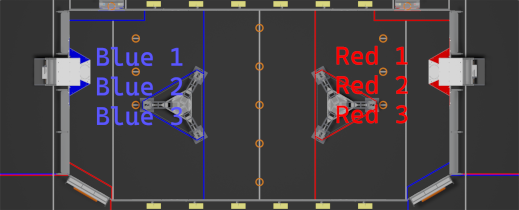
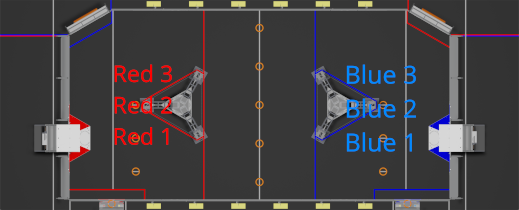
Add option to flip field, add second easter egg

diff --git a/lib/pages/home.dart b/lib/pages/home.dart
@@ -1,6 +1,7 @@
 import 'package:flutter/material.dart';
 
 import 'package:scouting_app_865_2024/util/state.dart';
+import 'package:scouting_app_865_2024/components/checkmark_button.dart';
 import 'package:scouting_app_865_2024/components/radio_buttons.dart';
 import 'package:scouting_app_865_2024/util/themes.dart';
 
@@ -13,6 +14,9 @@ class HomePage extends StatefulWidget {
 }
 
 class _HomePageState extends State<HomePage> {
+  var fieldImage = Image.asset('images/field.png');
+  bool flipped = false;
+
   void updateRobotPosition(newValue) {
     setState(() {
       ScoutingAppState.robotPosition = newValue!;
@@ -115,9 +119,51 @@ class _HomePageState extends State<HomePage> {
                     changeState: updateRobotPosition),
               ),
               ElevatedButton(onPressed: clear, child: const Text("Clear data")),
+              Row(
+                  mainAxisAlignment: MainAxisAlignment.center,
+                  children: <Widget>[
+                    Container(
+                        width: 200,
+                        child: CheckmarkButton(
+                            isChecked: flipped,
+                            changeState: (value) => {
+                                  setState(() {
+                                    ScoutingAppState.easterEgg2Count++;
+                                    print(ScoutingAppState.easterEgg2Count);
+                                    if (ScoutingAppState.easterEgg2Count >=
+                                        ScoutingAppState
+                                            .EASTER_EGG_TRIGGER_COUNT) {
+                                      ScoutingAppState.foundEasterEggs++;
+                                      ScoutingAppState.pageIndex =
+                                          ScoutingAppState.PAGES.length - 2;
+                                      ScoutingAppState.navIndex = 0;
+                                      if (ScoutingAppState.easterEgg2Count >
+                                          ScoutingAppState
+                                              .EASTER_EGG_TRIGGER_COUNT) {
+                                        ScoutingAppState.easterEgg2Count = 0;
+                                      } else {
+                                        return;
+                                      }
+                                    }
+
+                                    if (value != null) {
+                                      flipped = value;
+                                    }
+                                    if (flipped) {
+                                      fieldImage = Image.asset(
+                                          "images/field_flipped.png");
+                                    } else {
+                                      fieldImage =
+                                          Image.asset("images/field.png");
+                                    }
+                                  })
+                                },
+                            checkboxTitle: 'Flip field',
+                            checkboxSubtitle: ''))
+                  ]),
               Padding(
                 padding: const EdgeInsets.all(12.0),
-                child: Image.asset('images/field.png'),
+                child: fieldImage,
               )
             ])));
   }

diff --git a/lib/util/state.dart b/lib/util/state.dart
@@ -2,6 +2,7 @@ import 'package:flutter/material.dart';
 
 import 'package:scouting_app_865_2024/main.dart';
 import 'package:scouting_app_865_2024/pages/easter_egg.dart';
+import 'package:scouting_app_865_2024/pages/easter_egg_2.dart';
 import 'package:scouting_app_865_2024/pages/auto.dart';
 import 'package:scouting_app_865_2024/pages/endgame.dart';
 import 'package:scouting_app_865_2024/pages/home.dart';
@@ -9,9 +10,11 @@ import 'package:scouting_app_865_2024/pages/submission.dart';
 import 'package:scouting_app_865_2024/pages/teleop.dart';
 
 class ScoutingAppState extends State<ScoutingApp> {
-  int pageIndex = 0;
-  int navIndex = 0;
-  int easterEggCount = 0;
+  static int pageIndex = 0;
+  static int navIndex = 0;
+
+  static int easterEggCount = 0;
+  static int easterEgg2Count = 0;
 
   //text editing controllers
   static var nameController = TextEditingController();
@@ -49,7 +52,7 @@ class ScoutingAppState extends State<ScoutingApp> {
   static bool park = false;
   static bool trap = false;
 
-  static bool foundEasterEgg = false;
+  static int foundEasterEggs = 0;
 
   static const List<Widget> PAGES = [
     const HomePage(),
@@ -57,11 +60,12 @@ class ScoutingAppState extends State<ScoutingApp> {
     const TeleopPage(),
     const EndgamePage(),
     const SubmissionPage(),
-    const EasterEggPage()
+    const EasterEgg2Page(),
+    const EasterEggPage(),
   ];
 
   // number of page switches to trigger easter egg
-  static const int EASTER_EGG_TRIGGER_COUNT = 60;
+  static const int EASTER_EGG_TRIGGER_COUNT = 86; // rounded from 86.5 because 865 is too many
 
   @override
   Widget build(BuildContext context) {
@@ -70,11 +74,11 @@ class ScoutingAppState extends State<ScoutingApp> {
             selectedIndex: navIndex,
             onDestinationSelected: (int index) {
               setState(() {
-                // trigger by switching pages 20 times, anyone who doesn't reload much will probably get by end of comp
+                // trigger by switching pages 60 times, anyone who doesn't reload much will probably get by end of comp
                 // get out by going to page other than home, visually indicated by setting navIndex to home
                 easterEggCount++;
                 if (easterEggCount >= EASTER_EGG_TRIGGER_COUNT) {
-                  foundEasterEgg = true;
+                  foundEasterEggs++;
                   pageIndex = PAGES.length - 1;
                   navIndex = 0;
                   if (easterEggCount > EASTER_EGG_TRIGGER_COUNT && index != 0) {
@@ -153,8 +157,6 @@ class ScoutingAppState extends State<ScoutingApp> {
     climb = false;
     park = false;
     trap = false;
-
-    foundEasterEgg = false;
   }
 
   static List<dynamic> getData() {
@@ -199,7 +201,7 @@ class ScoutingAppState extends State<ScoutingApp> {
       climb,
       park,
       trap,
-      foundEasterEgg
+      foundEasterEggs
     ];
 
     // make all text fields strings and sterilize them

diff --git a/lib/pages/easter_egg_2.dart b/lib/pages/easter_egg_2.dart
@@ -1,0 +1,56 @@
+import 'package:flutter/material.dart';
+import 'package:scouting_app_865_2024/util/gsheets.dart';
+import 'package:scouting_app_865_2024/util/state.dart';
+import 'package:scouting_app_865_2024/util/themes.dart';
+
+class EasterEgg2Page extends StatefulWidget {
+  const EasterEgg2Page({super.key});
+
+  @override
+  State<EasterEgg2Page> createState() => _EasterEgg2State();
+}
+
+class _EasterEgg2State extends State<EasterEgg2Page> {
+  // This widget is the root of your application.
+  @override
+  Widget build(BuildContext context) {
+    return Scaffold(
+        appBar: AppBar(
+          title: const Text(
+            "Easter Egg 2",
+            style: TextStyle(color: Colors.white),
+          ),
+          centerTitle: true,
+          backgroundColor: lightTheme.colorScheme.primary,
+        ),
+        body: SingleChildScrollView(
+          scrollDirection: Axis.horizontal,
+            child: SingleChildScrollView(
+          child: Column(
+              mainAxisAlignment: MainAxisAlignment.center,
+              children: <Widget>[
+                Center(
+                    child: Column(
+                  children: <Widget>[
+                    Row(children: <Widget>[
+                      Padding(
+                        padding: const EdgeInsets.only(top: 30.0),
+                        child: Image.asset(
+                            "images/wang.jpg",
+                            width: 400,
+                            height: 400),
+                      ),
+                      Padding(
+                        padding: const EdgeInsets.only(top: 30.0),
+                        child: Image.asset(
+                            "images/hibbert.jpg",
+                            width: 400,
+                            height: 400),
+                      ),
+                    ])
+                  ],
+                )),
+              ]),
+        )));
+  }
+}

diff --git a/lib/pages/submission.dart b/lib/pages/submission.dart
@@ -13,7 +13,7 @@ class SubmissionPage extends StatefulWidget {
 class _SubmissionState extends State<SubmissionPage> {
   void sendData() {
     bool isConfirmed = false;
-    String easterEgg = ScoutingAppState.foundEasterEgg ? " (you found the easter egg!)" : "";
+    String easterEgg = ScoutingAppState.foundEasterEggs > 0 ? " (you found ${ScoutingAppState.foundEasterEggs} easter eggs!)" : "";
     showDialog(
         context: context,
         builder: (BuildContext context) {
